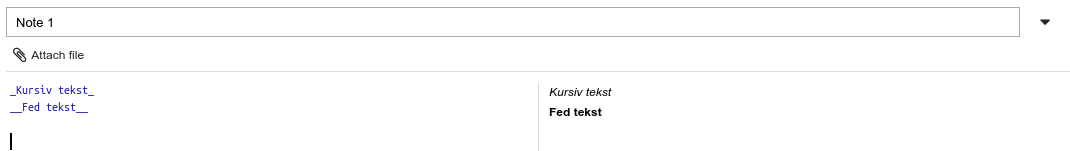
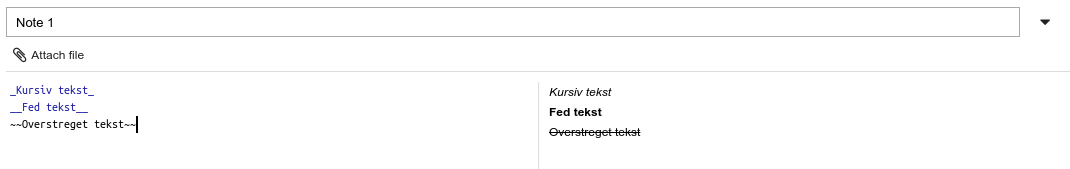
1

diff --git a/IT/joplin.html b/IT/joplin.html
@@ -228,14 +228,43 @@ type_: 1
 <p>Fordelen ved at anvende Markdown er, at formateringskoden er langt lettere at beherske end f.eks. HTML, som kræver tags både før og efter. På mange måder er markdown langt mere intuitiv at arbejde med.</p>
 
 <blockquote>
-	<p>
-		Joplins anvendelse af markdown er ikke helt så omfattense som sproget egentlig godtager. Derfor har jeg i det nedestående valgt at gennemgå den del der fungere med Joplin.
-	</p>
+	<p>	Joplins anvendelse af markdown er ikke helt så omfattense som sproget egentlig godtager. Derfor har jeg i det nedestående valgt at gennemgå den del der fungere med Joplin.</p>
 	
 	<p>Hvis du senere ønsker at arbejde med tekst til f.eks. hjemmesider eller opgaver, så kan du med fordel anvende markdown, da det giver store muligheder for at formatere sin tekst og f.eks. at indsætte en TOC (<b>T</b>able <b>O</b>ff <b>C</b>ontent).</p>
 </blockquote>
 
-<h2>Overskrifter</h2>
+<h2>Tekst</h2>
+
+<h3>Escape'd tegn</h3>
+
+<p>Skal man anvende tegn i sin tekst, der også anvendes i markup language, skal man "escape" dem. Det gøres ved at indsætte \ (backslash) foran. Det gælder følgende tegn:</p>
+
+<table class="_">
+
+	<tbody>
+		<tr>
+			<td>\ backslash</td>
+			<td>` backtic</td>
+			<td>* asterisk</td>
+			<td>_ underscore</td>
+
+		</tr>
+		<tr>
+			<td>{} curly brackets</td>
+			<td>[] brackets</td>
+			<td>() Paranteser</td>
+			<td># hash</td>
+		</tr>
+		<tr>
+			<td>+ plus</td>
+			<td>- minus</td>
+			<td>. punktum</td>
+			<td>! udråbstegn</td>
+		</tr>
+	</tbody>
+</table>
+
+<h3>Overskrifter</h3>
 
 <pre>
 	<code class="markdown">
@@ -256,12 +285,13 @@ Lorem ipsum dolor sit amet, consectetur adipiscing elit, sed do eiusmod tempor i
 
 </figure>
 
-<h2>Formatering af tekst</h2>
+<h3>Formatering af tekst</h3>
 
 <pre>
 	<code class="markdown">
 _Kursiv tekst_
 __Fed tekst__
+~~Overstreget tekst~~
 	</code>
 </pre>
 
@@ -273,42 +303,34 @@ __Fed tekst__
 
 </figure>
 
-<h2>Escape'd tegn</h2>
+<h3>Citater</h3>
 
-<p>Skal man anvende tegn i sin tekst, der også anvendes i markup language, skal man "escape" dem. Det gøres ved at indsætte \ (backslash) foran. Det gælder følgende tegn:</p>
-
-<table class="_">
-
-	<tbody>
-		<tr>
-			<td>\ backslash</td>
-			<td>() Paranteser</td>
-		</tr>
-		<tr>
-			<td>` backtic</td>
-			<td># hash</td>
-		</tr>
-		<tr>
-			<td>* asterisk</td>
-			<td>+ plus</td>
-		</tr>
-		<tr>
-			<td>_ underscore</td>
-			<td>- minus</td>
-		</tr>
-		<tr>
-			<td>{} curly brackets</td>
-			<td>. punktum</td>
-		</tr>
-		<tr>
-			<td>[] brackets</td>
-			<td>! udråbstegn</td>
-		</tr>
-	</tbody>
-</table>
+<p>I joplin er citater ikke formateret tydeligt, men bliver blot rykket ind. Det kan dog være en fordel hvis man senere vil konvertere til HTML eller PDF.</p>
 
 
-<h2>Tværgående linier</h2>
+<pre>
+	<code class="markdown">
+Dette er et citat (tekst der er rykket ind)
+
+> __Murphy's Law__: Anything that can possibly go wrong, does.
+
+Dette er et citat med et citat i
+
+> __Murphy's Law__: Anything that can possibly go wrong, does.
+
+>> __O'Tools corollary__: Myrpy was an optimist
+	</code>
+</pre>
+
+<figure id="">
+
+	<img class="p90" src="images/joblin11_citater.png" alt="" title="" />
+
+	<figcaption></figcaption>
+
+</figure>
+
+<h3>Tværgående linier</h3>
 
 <pre>
 	<code class="markdown">
@@ -349,59 +371,28 @@ Ut enim ad minim veniam, quis nostrud exercitation ullamco laboris nisi ut aliqu
 
 <p>Hvis man vil have den til at anvende tal eller bogstaver skriver man det i stedet de ovenstående tegn. Da joblin er et simpelt notesværktøj arbejder det ikke med indlejrede lister, som markup,language ellers gør.</p>
 
-<h2>Afkrydsnings lister</h2>
+<h3>Afkrydsnings lister</h3>
 
 <p>Man kan også oprette lister, hvor man kan markere om de er udført eller ej.</p>
 
 <pre>
 	<code class="Markdown">
-- [ ] Opgave 1
+- [X] Opgave 1
 - [ ] Opgave 2
 - [ ] Opgave 3
+- [ ] Opgave 4
 	</code>
 </pre>
 
-<h2>Tabeller</h2>
-
-<p>Tabeller laves ved at "tegne" dem. De skal ikke tegnes korrekt for markup formaterer det korrekt</p>
-
-<pre>
-	<code class="Markdown">
-Tabeloverskrift 1 | Tabeloverskrift 2 | Tabeloverskrift 3 
----|---|---
-Indhold 1 | Indhold 2 | indhold 3
-	</code>
-</pre>
+<p>Ved at sætte <span class="inl_cmd">x</span> i <span class="inl_cmd">[ ]</span> bliver feltet markeret på forhånd. Feltet er interaktivt ved at man klikker på det.</p>
 
 <figure id="">
 
-	<img class="p90" src="images/joplin05_tabel_1.png" alt="" title="" />
+	<img class="p90" src="images/joplin04a_Afkrydsningslister.png" alt="" title="" />
 
 	<figcaption></figcaption>
 
 </figure>
-
-<p>Den anden linie fortæller hvordan tabellen skal formateres. De tre streger fortæller at der skal være en ramme omkring de enkelte felter i tabellen. Ved at indsætte kolon for og efter stregerne kan man bestemme om kolonne teksten skal være venstre, centralt eller højrestillet.</p>
-
-<pre>
-	<code class="markdown">
-Tabeloverskrift 1 | Tabeloverskrift 2 | Tabeloverskrift 3 
----|:---:|---:
-venstrestillet | Centreret | Højrestillet
-	</code>
-</pre>
-
-<figure id="">
-
-	<img class="p90" src="images/joplin06_tabel_2.png" alt="" title="" />
-
-	<figcaption></figcaption>
-
-</figure>
-
-<p>Udelader man kolon, så vil teksten automatisk blive venstrestillet.</p>
-
-
 
 <h2>Links</h2>
 
@@ -464,6 +455,47 @@ Det kan også bare være [den rene reference]
 
 </figure>
 
+<h2>Tabeller</h2>
+
+<p>Tabeller laves ved at "tegne" dem. De skal ikke tegnes korrekt for markup formaterer det korrekt</p>
+
+<pre>
+	<code class="Markdown">
+Tabeloverskrift 1 | Tabeloverskrift 2 | Tabeloverskrift 3 
+---|---|---
+Indhold 1 | Indhold 2 | indhold 3
+	</code>
+</pre>
+
+<figure id="">
+
+	<img class="p90" src="images/joplin05_tabel_1.png" alt="" title="" />
+
+	<figcaption></figcaption>
+
+</figure>
+
+<p>Den anden linie fortæller hvordan tabellen skal formateres. De tre streger fortæller at der skal være en ramme omkring de enkelte felter i tabellen. Ved at indsætte kolon for og efter stregerne kan man bestemme om kolonne teksten skal være venstre, centralt eller højrestillet.</p>
+
+<pre>
+	<code class="markdown">
+Tabeloverskrift 1 | Tabeloverskrift 2 | Tabeloverskrift 3 
+---|:---:|---:
+venstrestillet | Centreret | Højrestillet
+	</code>
+</pre>
+
+<figure id="">
+
+	<img class="p90" src="images/joplin06_tabel_2.png" alt="" title="" />
+
+	<figcaption></figcaption>
+
+</figure>
+
+<p>Udelader man kolon, så vil teksten automatisk blive venstrestillet.</p>
+
+
 <h2>Billeder</h2>
 
 <p>Hvis man ønkser at indsætte et billede kan det gøres enten inline eller med refenrence:</p>
@@ -489,6 +521,7 @@ Det kan også bare være [den rene reference]
 ![alt text][logo]
 
 [logo]: https://upload.wikimedia.org/wikipedia/commons/a/af/Tux.png
+
 	</code>
 </pre>
 
@@ -504,32 +537,7 @@ Det kan også bare være [den rene reference]
 	</code>
 </pre>
 
-<h2>Citater</h2>
 
-<p>I joplin er citater ikke formateret tydeligt, men bliver blot rykket ind. Det kan dog være en fordel hvis man senere vil konvertere til HTML eller PDF.</p>
-
-
-<pre>
-	<code class="markdown">
-Dette er et citat (tekst der er rykket ind)
-
-> __Murphy's Law__: Anything that can possibly go wrong, does.
-
-Dette er et citat med et citat i
-
-> __Murphy's Law__: Anything that can possibly go wrong, does.
-
->> __O'Tools corollary__: Myrpy was an optimist
-	</code>
-</pre>
-
-<figure id="">
-
-	<img class="p90" src="images/joblin11_citater.png" alt="" title="" />
-
-	<figcaption></figcaption>
-
-</figure>
 
 
 <h1>Cheat sheets</h1>
@@ -544,58 +552,53 @@ Dette er et citat med et citat i
 
 <p>Markdown kan ved hjælp af forskellige redskaber konverteres til andre formater. Det betyder at du hurtigt vil kunne lave din tekst og derefter videredistribuere det i forskellige formater.</p>
 
-<h2>Dillinger</h2>
-
-<p>Dillinger har den fordel, at den kan eksportere til PDF. Desværre kan den ikke arbejde med <span class="math">\( L_at^ex \)</span> kode, hvilket gør den besværlig at anvende til matematik.</p>
-
-<p><a href="https://dillinger.io/" target="_blank">https://dillinger.io/</a></p>
-
-<h2>Stack editor</h2>
-
-<p>Stack editor har 2 Væsentlige fordele. Den kan arbejde med <span class="math">\( L_at^ex \)</span>, og den eksportere en meget ren HTML kode. Ulempen er, at man ikke kan eksportere til PDF. Denne feature kan dog tilkøbes for 5$ om året.</p>
-
-<p><a href="https://stackedit.io/editor" target="_blank">https://stackedit.io/editor</a></p>
-
-<h1>HTML-prettyfyers</h1>
-
-<p>For at gøre eksporteret HTML kode læseligt kan man køre det igennem en <span class="inl_cmd">prettyfier</span>.</p>
-
-<h2>HTML-formatter</h2>
-
-<p>HTML-formatter: <a href="http://htmlformatter.com/" target="_blank">http://htmlformatter.com/</a></p>
-
-<p>Laver en pæn HTML-kode med mellemrum mellem elementerne, men kan ikke indstilles.</p>
-
-<h2>Dirty Markup</h2>
-
-<p>Dirty markup: <a href="https://www.10bestdesign.com/dirtymarkup/" target="_blank">https://www.10bestdesign.com/dirtymarkup/</a></p>
-
-<p>Den indstilling du skal være opmærksom på er <span class="inl_cmd">Output</span>. Her kan du vælge mellem to:</p>
-
 <ul class="none fat_li">
-	<li>Full page</li>
 	
-		<p>Formaterer og omdanner HTML-koden til et HTML5 dokument, med korrekt opsætning (deklaration, head og body)</p>
-		
-	<li>Code fragment</li>
+	<li>Dillinger</li>
 	
-		<p>Omdanner kun selve den kode du indsætter.</p>
+		<p>Dillinger har den fordel, at den kan eksportere til PDF. Desværre kan den ikke arbejde med <span class="math">\( L_at^ex \)</span> kode, hvilket gør den besværlig at anvende til matematik.</p>
+
+		<p><a href="https://dillinger.io/" target="_blank">https://dillinger.io/</a></p>
+	
+	<li>Stack editor</li>
+	
+		<p>Stack editor har 2 Væsentlige fordele. Den kan arbejde med <span class="math">\( L_at^ex \)</span>, og den eksportere en meget ren HTML kode. Ulempen er, at man ikke kan eksportere til PDF. Denne feature kan dog tilkøbes for 5$ om året.</p>
+
+		<p><a href="https://stackedit.io/editor" target="_blank">https://stackedit.io/editor</a></p>
+	
+	<li>Haroopad</li>
+
+		<p>Haroopad er en off-line editor, som du kan anvende til skrive dine dokumenter i, samt at eksportere til både HTML og PDF</p>
+
+		<p><a href="http://pad.haroopress.com/user.html" target="_blank">http://pad.haroopress.com/user.html</a></p>
+	
 </ul>
 
 
 
 
 
-<h2>Haroopad</h2>
 
-<p>Haroopad er en off-line editor, som du kan anvende til skrive dine dokumenter i, samt at eksportere til både HTML og PDF</p>
+<h2>HTML-prettyfyers</h2>
 
-<p>Den er licenseret under GPL</p>
-
-<p><a href="http://pad.haroopress.com/user.html" target="_blank">http://pad.haroopress.com/user.html</a></p>
+<p>For at gøre eksporteret HTML kode læseligt kan man køre det igennem en <span class="inl_cmd">prettyfier</span>.</p>
 
 
+<ul class="none fat_li">
+	
+	<li>HTML-formatter</li>
+	
+		<p>HTML-formatter: <a href="http://htmlformatter.com/" target="_blank">http://htmlformatter.com/</a></p>
 
+		<p>Laver en pæn HTML-kode med mellemrum mellem elementerne, men kan ikke indstilles.</p>
+	
+	<li>Dirty Markup</li>
+	
+	<p>Dirty markup: <a href="https://www.10bestdesign.com/dirtymarkup/" target="_blank">https://www.10bestdesign.com/dirtymarkup/</a></p>
+
+	<p>Den indstilling du skal være opmærksom på er <span class="inl_cmd">Output</span>. Her kan du vælge mellem <span class="inl_cmd">Full page</span>, som konvertere din kode til HTML5 (dekleration, head, body) og <span class="inl_cmd">Code fragment</span>, som kun laver den konkrete kode.</p> 
+	
+</ul>
 
 	
 </div><!-- end: col-md-9 -->
